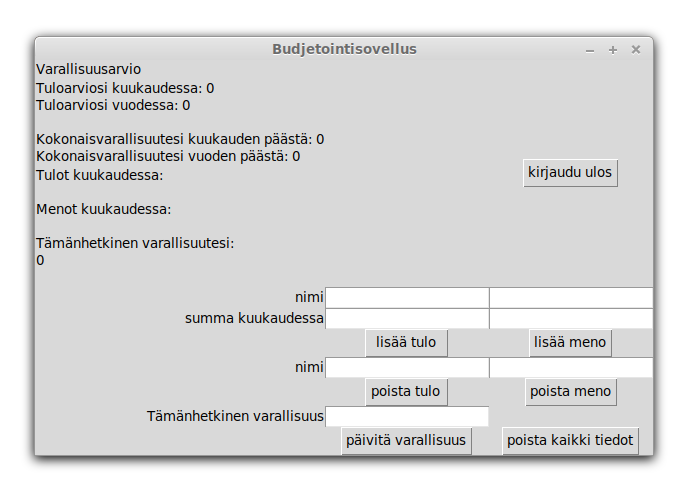
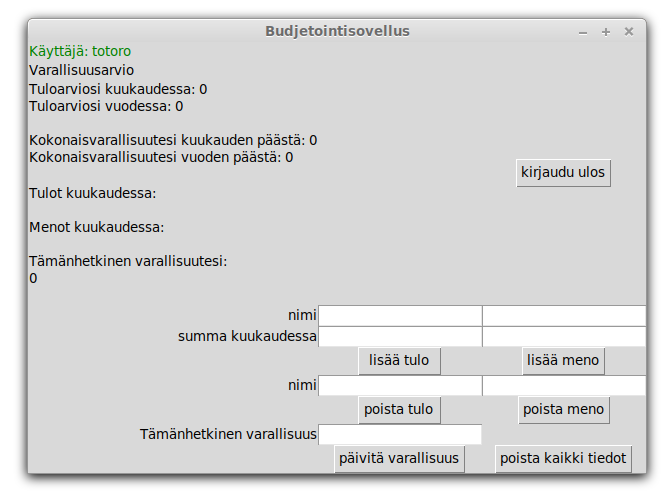
käyttöohje ja akkitehtuurikuvaus

Changed region(s): [[0.0299, 0.0, 0.988, 0.9856]]

diff --git a/harjoitustyo/src/front_view.py b/harjoitustyo/src/front_view.py
@@ -63,7 +63,7 @@ class DataView:
 
     def _show_error(self, message):
         self._error_variable.set(message)
-        self._error_label.grid(row=3, column=2)
+        self._error_label.grid(row=4, column=2)
 
     def _hide_error(self):
         self._error_label.grid_remove()

diff --git a/harjoitustyo/dokumentaatio/arkkitehtuuri.md b/harjoitustyo/dokumentaatio/arkkitehtuuri.md
@@ -2,21 +2,29 @@
 
 ```mermaid
  classDiagram
-      index --> UI
-      Service "1" <--> "1" File_reader
-      Initialize_database ..> "1" Database_connection
-      File_reader "1" <..> "1" Database_connection
-      UI "1" --> "1" FrontView
-      UI "1" --> "1" LoginView
-      LoginView "1" --> "1" Service
-      FrontView "1" <..> "1" LoginView
-      FrontView "1" <--> "1" Service
+      index --> ui
+      service "1" <--> "1" file_reader
+      initialize_database ..> "1" database_connection
+      file_reader "1" <..> "1" database_connection
+      ui "1" --> "1" front_view
+      ui "1" --> "1" login_view
+      login_view "1" --> "1" service
+      front_view "1" <..> "1" login_view
+      front_view "1" <--> "1" service
+      ui: UI
+      front_view: FrontView
+      front_view: DataView
+      login_view: LoginView
+      service: Service
+      file_reader: Repository
 ```
+
+Sovelluksen rakenne koostuu käyttöliittymästä, sovelluslogiikasta ja repositoriosta. Sovelluksen käynnistyessä index-moduuli alustaa luokat Repository ja Service, sekä luo ikkunan sovellukselle tkinter:illa. Käyttöliittymästä huolehtii Service. SQL-repositorion kanssa kommunikoi luokka Repository, joka saa SQL-repositorion sijainnin moduulista database_connection. Initialize_database alustaa SQL-repositorion.
 
 ## sovelluslogiikka
 
 Suuri osa sovelluksen toiminnoista noudattaa seuraavaa kaavaa.  
-tietojen poistaminen repositoriosta: 
+tietojen poistaminen repositoriosta:  
 
 ```mermaid
 sequenceDiagram
@@ -31,6 +39,25 @@ sequenceDiagram
     end
     FrontView->>DataView: 
     DataView->>+DataView: initialize()
+    DataView->>+Service: get_estimation()
+    Service->>Repository: read_income()
+    Repository->>Service: 
+    Service->>Repository: read_expenses()
+    Repository->>Service: 
+    Service->>Repository: read_wealth()
+    Repository->>Service: 
+    Service->>-DataView: 
+    DataView->>+Service: print_data()
+    Service->>Repository: read_income()
+    Repository->>Service: 
+    Service->>Repository: read_expenses()
+    Repository->>Service: 
+    Service->>Repository: read_wealth()
+    Repository->>Service: 
+    Service->>-DataView: 
+    DataView->>+Service: username()
+    Service->>-DataView: 
+    DataView->>DataView: hide_error()
     DataView->>-DataView: 
     DataView-->>FrontView: 
     FrontView->>+DataView: pack()
@@ -38,6 +65,10 @@ sequenceDiagram
     FrontView->>-FrontView: 
 ```
 
+Käyttäjä painaa Päänäkymässä olevaa nappia "poista kaikki tiedot". Luokka FrontView kutsuu Servicen funktiota delete_all_data(), joka taas kutsuu file_reader moduulissa sijaitsevan Repository-luokan moduulia clear(). Clear poistaa SQL tauluista käyttäjän antaman datan ja palaa taas Servicen kautta FrontView-luokkaan. Seuraavaksi on päivitettävä päänäkymä, jotta muutokset välittyvät käyttäjälle. FrontView kutsuu funktiota initialize_data(). Ensin funktio tuhoaa vanhentuneen näkymän kutsumalla DataView-luokan funktiota destroy(). Sitten se alkaa rakentaa uutta näkymää luomalla uuden DataView-olion. Olion luonnissa DataView kutsuu funktiona initialize(), joka pyytää Servicen ja Repositorion kautta viimeisimmät tiedot SQL tauluista. Tietojen haun jälkeen poistetaan vielä mahdolliset virheviestit näytöltä ja palataan FrontView-luokkaan. FrontView kutsuu vielä DataView:n pack()-funktiota, joka viimeistelee tietojen generoimisen päänäkymään.
+
 ## tallennus
 
-Data tallennetaan SQLite-tietokantaan (harjoitustyo/src/repositories/data.db). Tietokantaa lukee ja kirjoittaa File_reader.py tiedostossa oleva Repository -luokka. Tietokannan schema on tallennettu schema.sql tiedostoon. Tietokannassa on taulut income, expenses, wealth ja users.
+Data tallennetaan SQLite-tietokantaan (harjoitustyo/src/repositories/data.db). Tietokantaa lukee ja kirjoittaa File_reader.py moduulissa oleva Repository-luokka. Tietokannan schema on tallennettu schema.sql tiedostoon. Tietokannassa on taulut income, expenses, wealth ja users.  
+
+![](./kuvat/schema.png)

diff --git a/harjoitustyo/dokumentaatio/kayttoohje.md b/harjoitustyo/dokumentaatio/kayttoohje.md
@@ -1,18 +1,20 @@
 ## kirjautuminen
 
-Sovelluksen käynnistyessä ensimmäinen näkymä on kirjautumisnäkymä. Ylempään tekstikenttään kirjoitetaan käyttäjätunnus ja alempaan salasana. Jos käyttäjää ei ole vielä olemassa, panetaan rekisteröidy, muutoin painetaan kirjaudu. Rekisteröityminen tapahtuu samasta näkymästä.  
+Sovelluksen käynnistyessä ensimmäinen näkymä on kirjautumisnäkymä. Rekisteröityminen tapahtuu samasta näkymästä. Ylempään tekstikenttään kirjoitetaan käyttäjätunnus ja alempaan salasana. Jos käyttäjää ei ole vielä olemassa, panetaan rekisteröidy, muutoin painetaan kirjaudu.  
 
 ![](./kuvat/login_view.png)
 
 ## sovelluksen käyttäminen
 
-Kirjautumisen jälkeen näkyviin tulee sovelluksen päänäkymä. Ylälaidassa näkyy käyttäjän antamien tietojen perusteella luotu arvio.  
+Kirjautumisen jälkeen näkyviin tulee sovelluksen päänäkymä. Ylälaidassa näkyy käyttäjätunnus, ja sen alapuolella annettujen tietojen perusteella luotu arvio.  
 
 ![](./kuvat/front_view.png)
 
 ### tietojen hallinta
 
-Alalaidassa käyttäjä voi lisätä itselleen menoja, tuloja ja varallisuutta, sekä poistaa niitä. Ensin käyttäjä antaa tekstikenttiin haluamansa tiedot ja sen jälkeen painaa tekstikentän alapuolella olevaa painiketta, jolloin tiedot päivittyvät sivulle.
+Alalaidassa käyttäjä voi lisätä itselleen menoja, tuloja ja varallisuutta, sekä poistaa niitä. Ensin käyttäjä antaa tekstikenttiin haluamansa tiedot ja sen jälkeen painaa tekstikentän alapuolella olevaa painiketta, jolloin tiedot päivittyvät sivulle.  
+
+![](./kuvat/input.png)
 
 ### uloskirjautuminen
 

diff --git a/harjoitustyo/dokumentaatio/tyoaikakirjanpito.md b/harjoitustyo/dokumentaatio/tyoaikakirjanpito.md
@@ -2,9 +2,9 @@
 
 ## lista työtunneista
 
-[0.5, 5.3, 0.5, 3, 0.5, 1.5, 0.5, 1, 1.5, 7.5, 1, 2, 0.6, 2.8, 1.5, 2, 1, 0.5, 1.7, 2.8]  
+[0.5, 5.3, 0.5, 3, 0.5, 1.5, 0.5, 1, 1.5, 7.5, 1, 2, 0.6, 2.8, 1.5, 2, 1, 0.5, 1.7, 2.8, 0.5, 1.2]  
 
-yhteensä 37.7 h  
+yhteensä 39.4 h  
 
 ### viikko 2
 
@@ -63,3 +63,7 @@ virheilmoitukset kirjautumisnäkymään:
 1.7 h  
 virheilmoitukset päänäkymään:  
 2.8 h  
+kirjautunut käyttäjätunnus päänäkymään:  
+0.5 h  
+käyttöohje ja arkkitehtuurikuvaus:  
+1.2 h  

diff --git a/harjoitustyo/dokumentaatio/changelog.md b/harjoitustyo/dokumentaatio/changelog.md
@@ -28,3 +28,4 @@
 ## viikko 7  
 
 - Virheilmoitukset
+- Sisäänkirjautunut käyttäjätunnus päänäkymään
